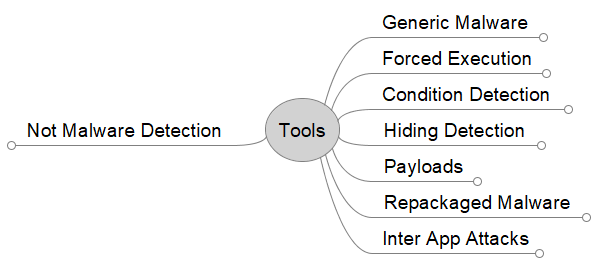
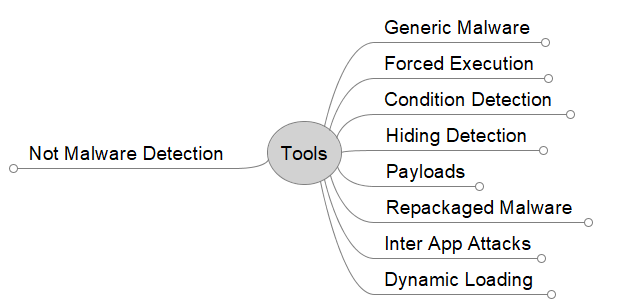
update website

Changed region(s): [[0.0, 0.1476, 0.9884, 0.9742], [0.599, 0.059, 0.9285, 0.1476]]

diff --git a/docs/toolcollection/toolcollection.md b/docs/toolcollection/toolcollection.md
@@ -66,6 +66,7 @@ These categories include:
 6. Payloads - Papers aimed to targeting a specific type of payload (ex., info-leak, overlay phishing, privilege escalation)
 7. Repackaged Malware - Papers aimed at detecting repackaged apps
 8. Inter App Attacks - Papers aimed at detecting apps that collude together to perform an attack
+9. Dynamic Loading - Papers aimed at detecting dynamic code loading
 
 Details of the papers within each category can be found within this [excel file](../../../assets/data/excelsheets/Tools.xlsx).
 
